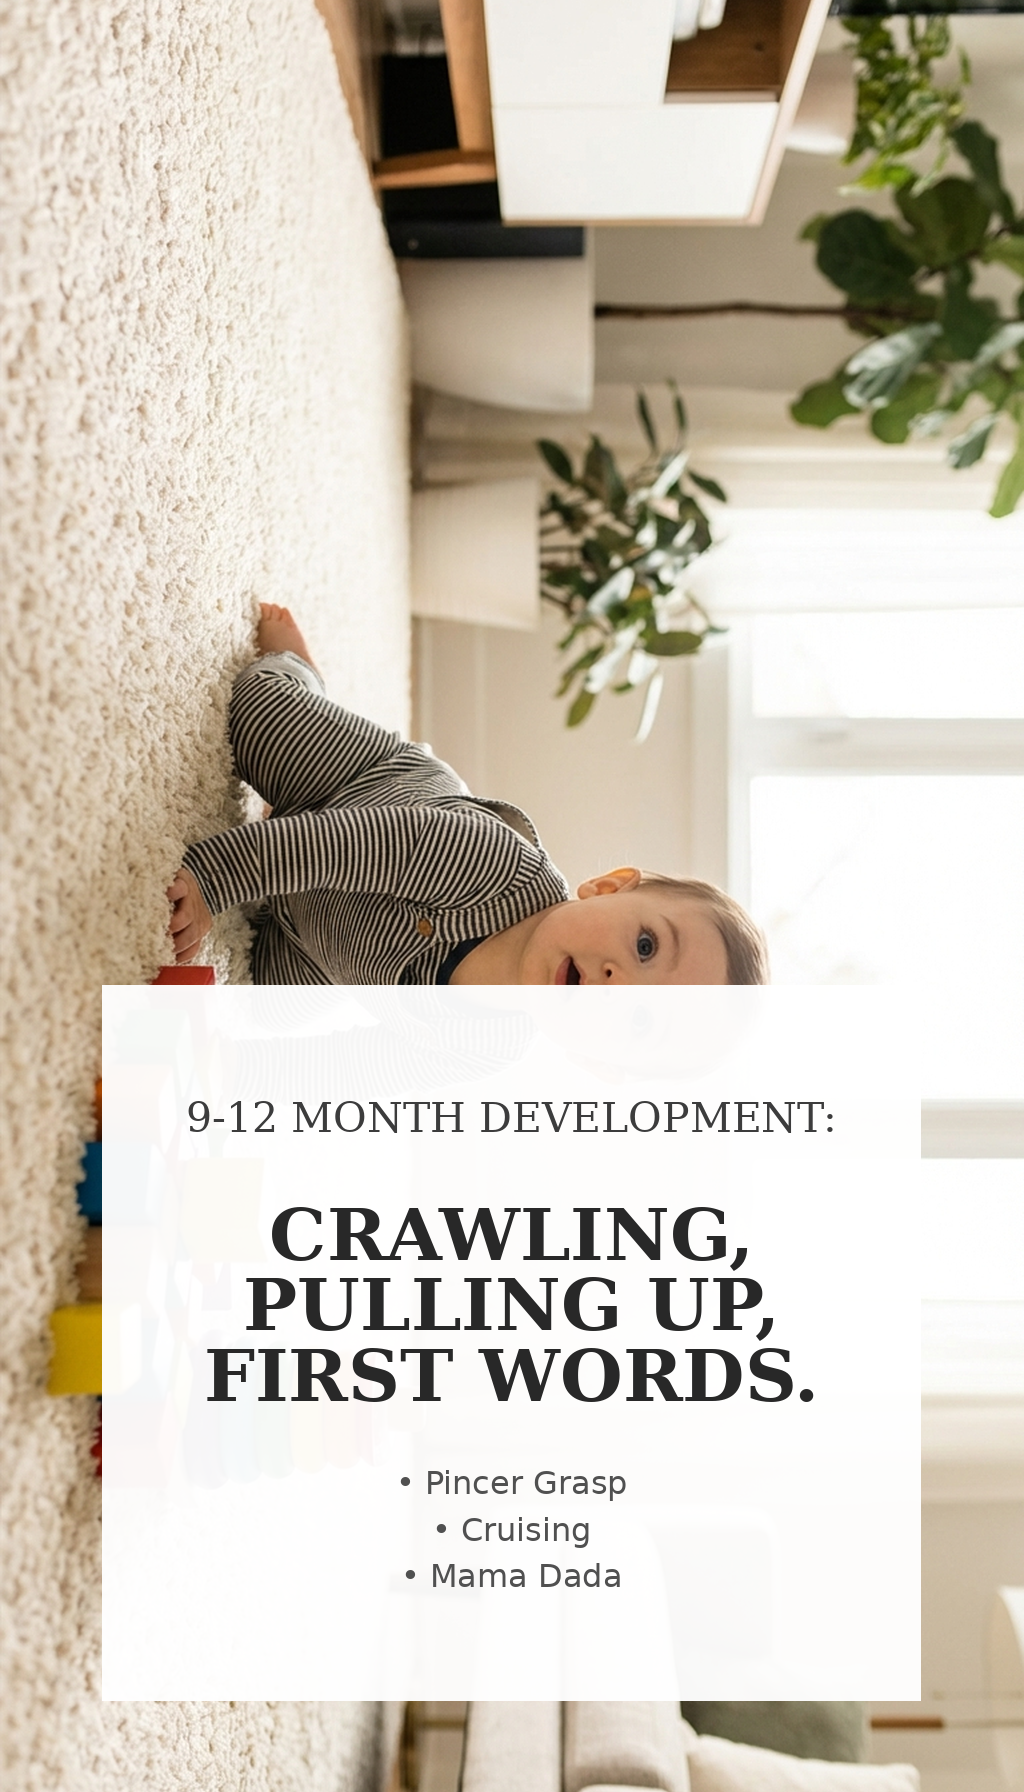
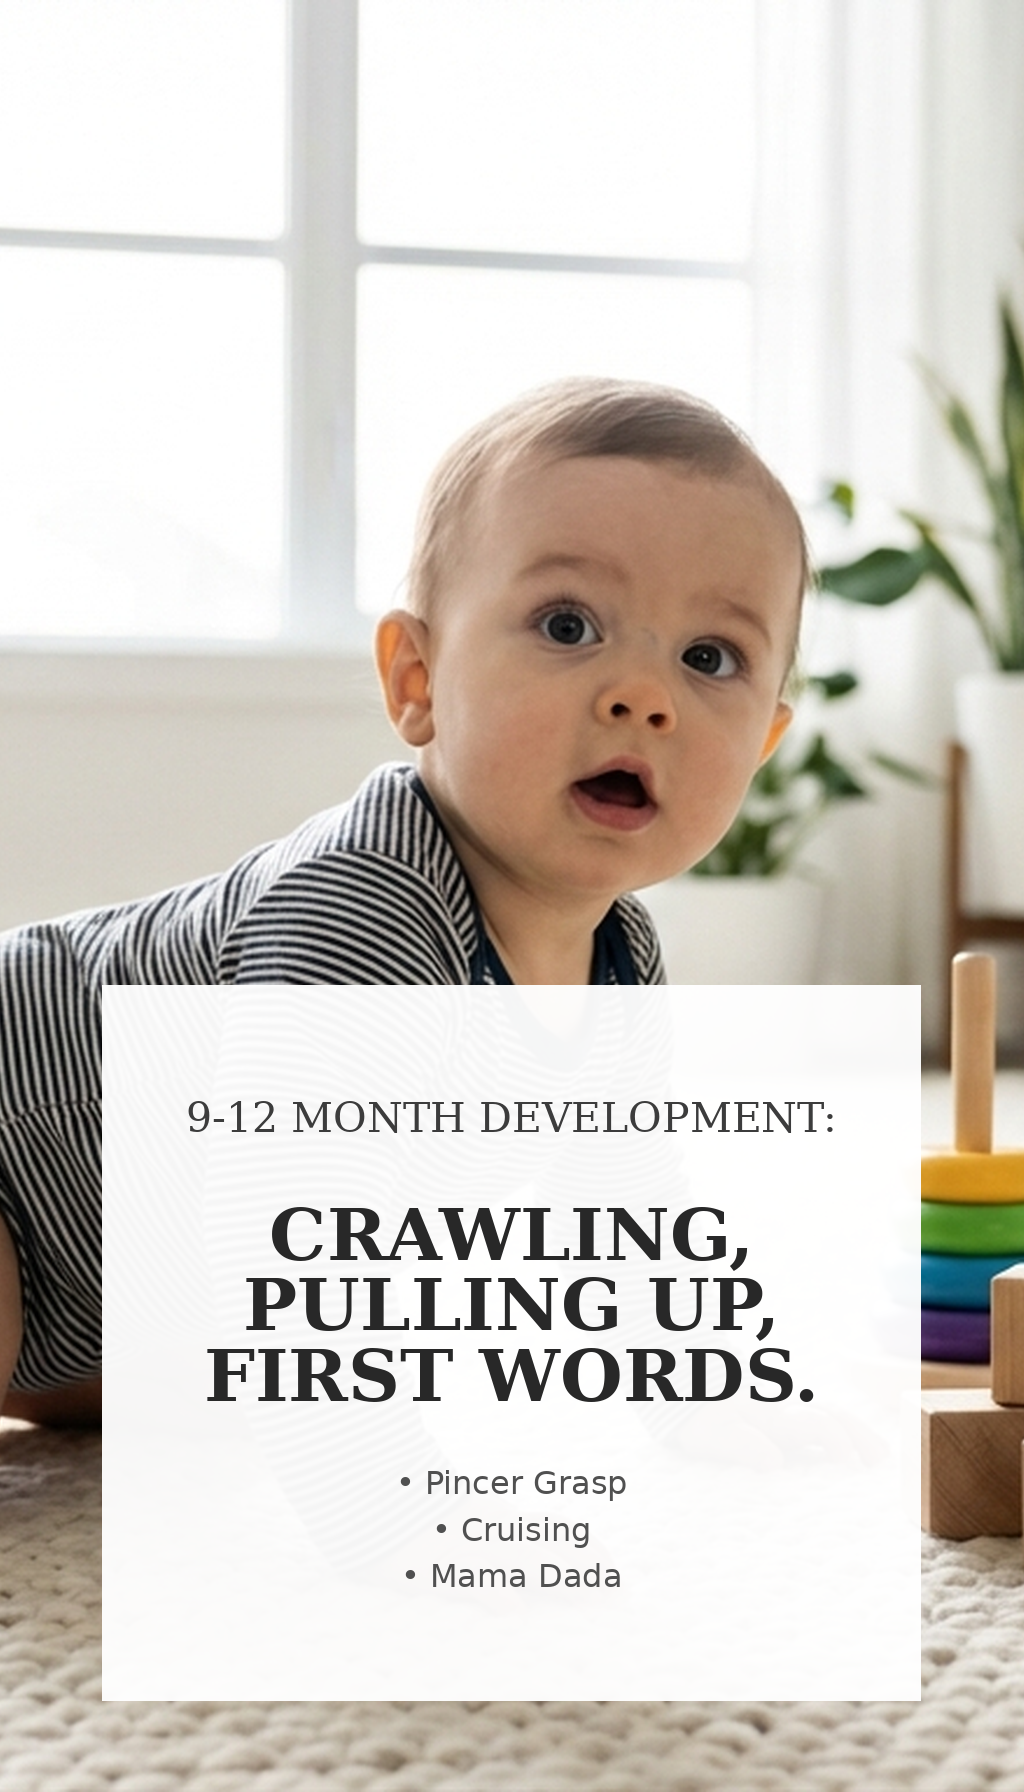
Fix Pinterest pin generator: remove unreliable auto-rotation and add manual --rotate flag

diff --git a/scripts/generate_pin.py b/scripts/generate_pin.py
@@ -24,6 +24,7 @@ def main():
     parser.add_argument("--prompt", required=True, help="Prompt for background image")
     parser.add_argument("--output", required=True, help="Output filename")
     parser.add_argument("--layout", default="split", choices=["split", "overlay", "card-bottom"], help="Layout style")
+    parser.add_argument("--rotate", type=int, default=0, help="Rotate background image (degrees counter-clockwise)")
     parser.add_argument("--api-key", help="Gemini API key")
     
     args = parser.parse_args()
@@ -55,22 +56,20 @@ def main():
     img = Image.new('RGB', (W, H), WHITE)
     draw = ImageDraw.Draw(img)
     
-    # Load background
     bg = Image.open(temp_bg).convert('RGB')
     
-    # Check EXIF orientation and fix it (essential for AI generated images)
+    # Check EXIF orientation and fix it
     try:
         from PIL import ImageOps
         bg = ImageOps.exif_transpose(bg)
     except:
         pass
 
+    # Apply manual rotation if specified
+    if args.rotate != 0:
+        bg = bg.rotate(args.rotate, expand=True)
+
     bg_w, bg_h = bg.size
-    
-    # If the image is landscape, rotate it to portrait (90 deg clockwise)
-    if bg_w > bg_h:
-        bg = bg.rotate(-90, expand=True)
-        bg_w, bg_h = bg.size
         
     # Layout configuration
     if args.layout == "split":
